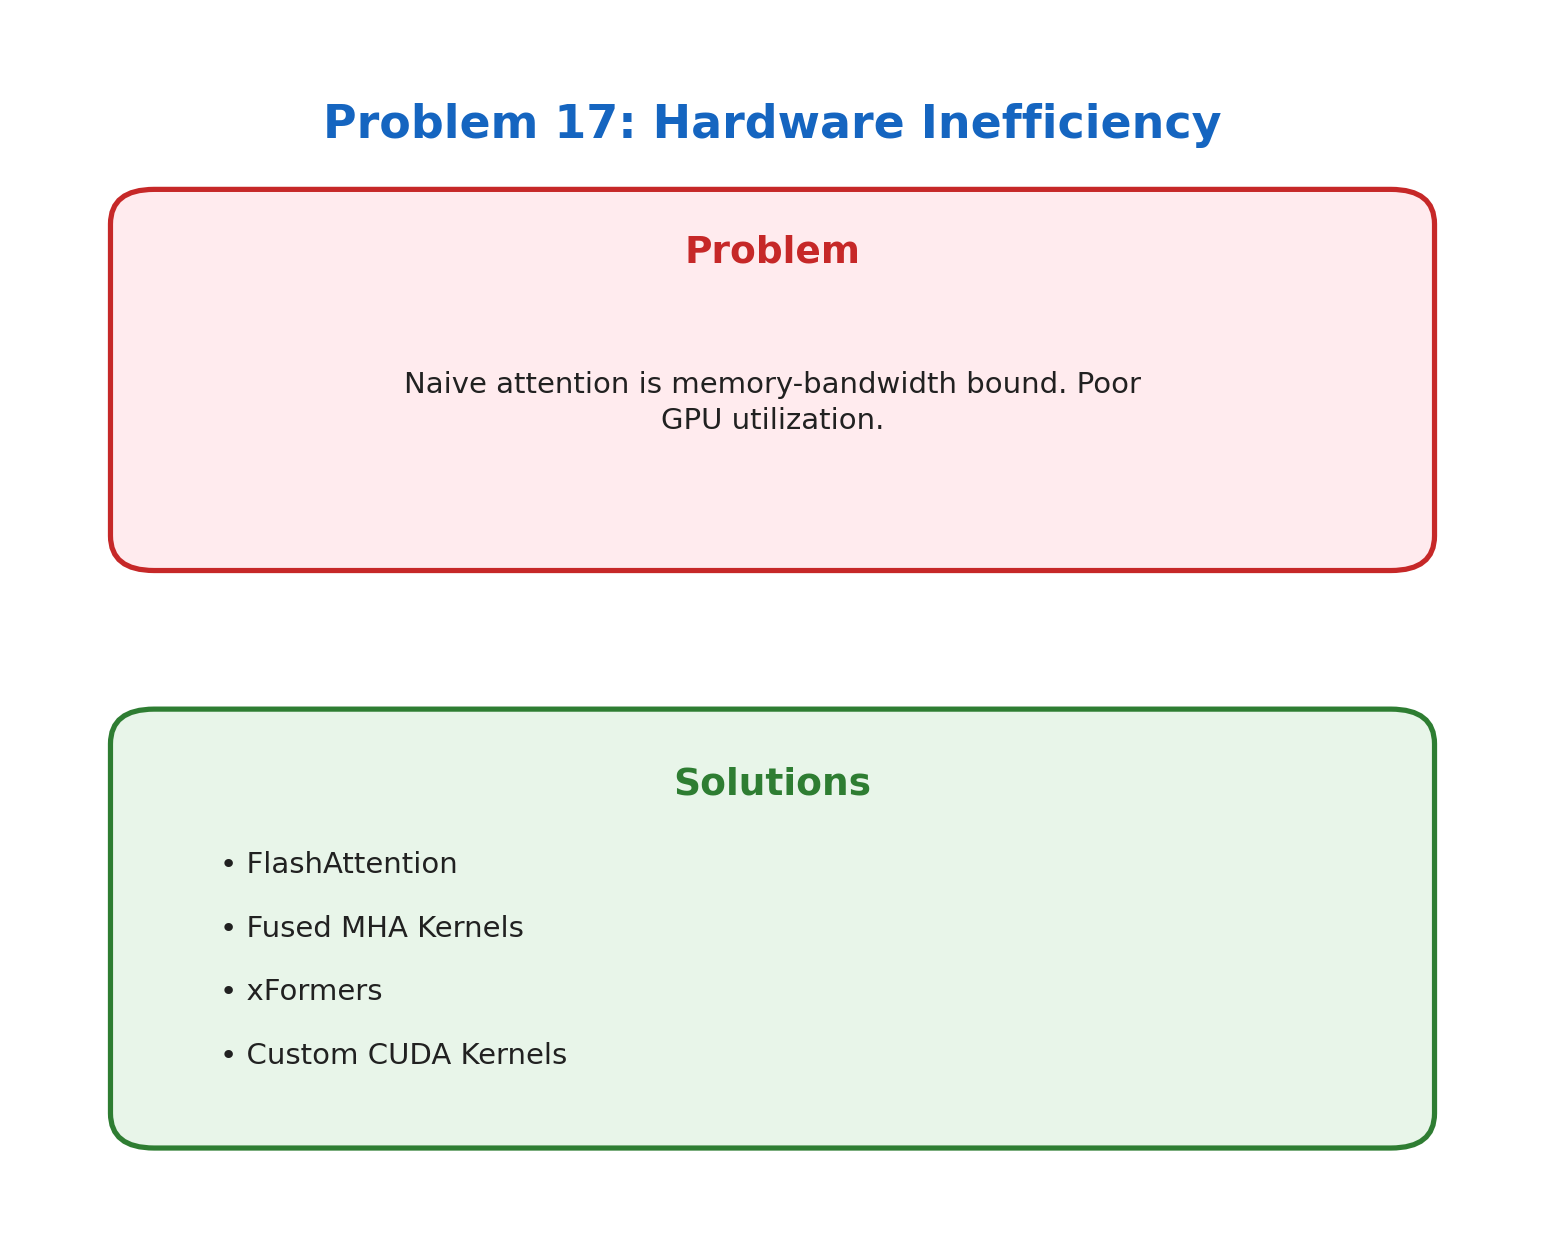
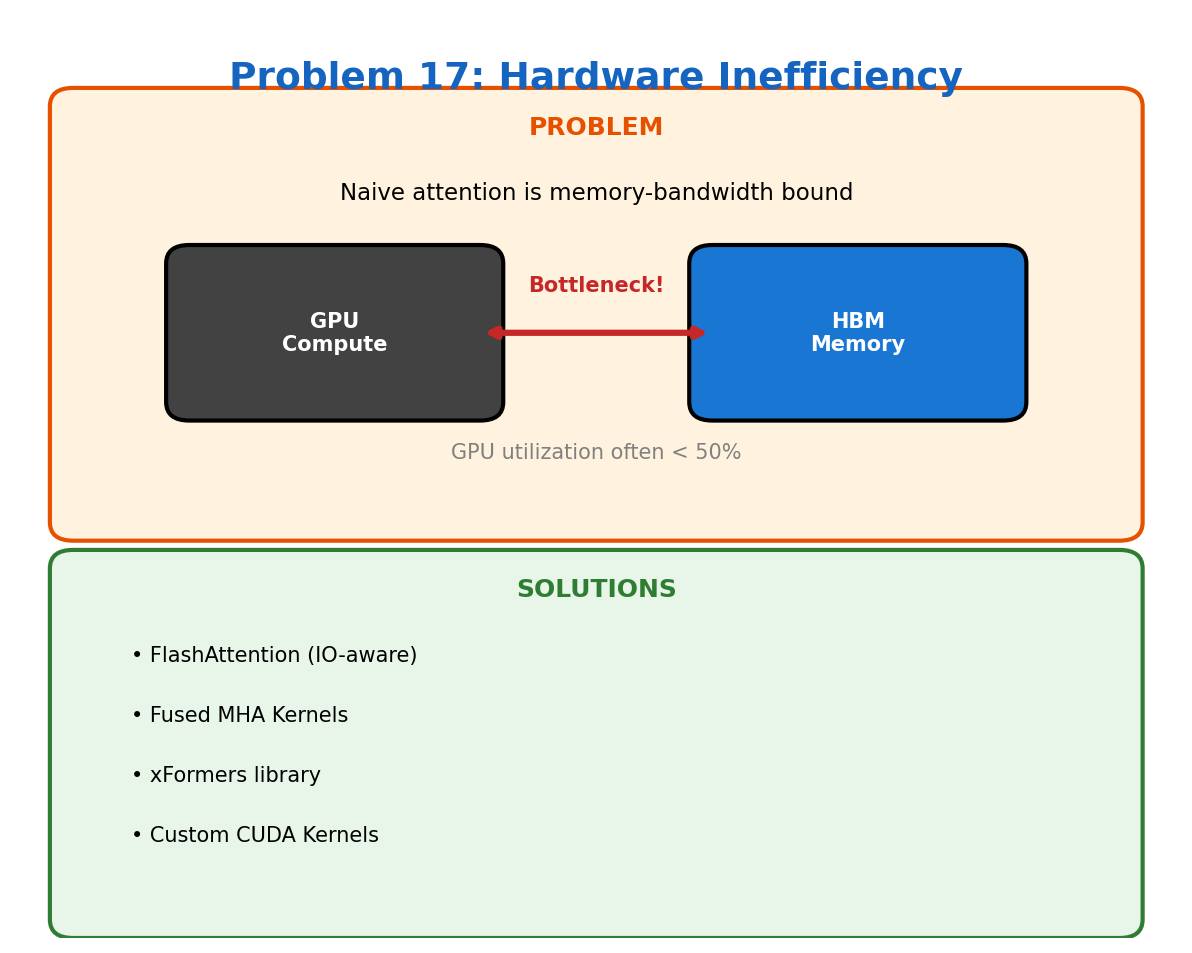
Update Problem 17: Hardware Inefficiency - human-readable README

diff --git a/17_hardware_inefficiency/README.md b/17_hardware_inefficiency/README.md
@@ -1,23 +1,68 @@
 # Problem 17: Hardware Inefficiency
 
-## Problem
+[← Back to Main](../README.md) | [← Previous](../16_dense_inputs/README.md) | [Next →](../18_realtime_deployment/README.md)
 
-Naive attention is memory-bandwidth bound. Poor GPU utilization.
+---
 
-Standard attention implementations are bottlenecked by memory bandwidth rather than compute. Reading/writing the N×N attention matrix to GPU memory dominates runtime.
+![Problem 17](./problem.png)
 
-## Solutions
+## What's the Problem?
 
-| Solution | Description |
-|----------|-------------|
-| **FlashAttention** | IO-aware attention that minimizes HBM reads/writes |
-| **Fused MHA Kernels** | Fuse multiple attention operations into single kernels |
-| **xFormers** | Facebook's library for efficient Transformer components |
-| **Custom CUDA Kernels** | Hand-optimized kernels for specific hardware |
+GPUs are insanely fast at matrix multiplication — A100s can do 312 TFLOPS. But during attention, they often sit idle at 30-50% utilization.
 
-## References
+Why? Memory bandwidth. The GPU can compute faster than it can read/write data. Attention requires reading Q, K, V matrices from memory, computing scores, writing them back, reading again for softmax... lots of memory traffic.
 
-- [FlashAttention](https://arxiv.org/abs/2205.14135) - Fast and Memory-Efficient Exact Attention
-- [FlashAttention-2](https://arxiv.org/abs/2307.08691) - Faster Attention with Better Parallelism
-- [xFormers](https://github.com/facebookresearch/xformers) - Hackable and Optimized Transformers
+This is called being **memory-bound** (vs. **compute-bound**).
 
+## The Memory Hierarchy
+
+```
+SRAM (on-chip): ~20MB, ~19 TB/s bandwidth
+HBM (GPU memory): ~80GB, ~2 TB/s bandwidth
+```
+
+SRAM is fast but tiny. HBM is big but slow (relatively). Standard attention constantly shuffles data between them.
+
+## The Attention Bottleneck
+
+Standard attention:
+1. Load Q, K from HBM → SRAM
+2. Compute QK^T → Write to HBM
+3. Load QK^T from HBM → SRAM  
+4. Compute softmax → Write to HBM
+5. Load attention weights and V → SRAM
+6. Compute output → Write to HBM
+
+That N×N attention matrix gets written and read multiple times. For long sequences, this dominates runtime.
+
+## How Do We Fix It?
+
+| Approach | What It Does |
+|----------|--------------|
+| **FlashAttention** | Fuse all attention operations, never materialize N×N matrix |
+| **Fused Kernels** | Combine multiple operations into single GPU kernel |
+| **xFormers** | Library of memory-efficient transformer components |
+| **Custom CUDA** | Hand-written kernels optimized for specific hardware |
+
+## FlashAttention: The Fix
+
+FlashAttention restructures the computation:
+1. Process attention in tiles that fit in SRAM
+2. Compute softmax incrementally (online softmax)
+3. Never write the full N×N matrix to HBM
+
+Same math, same output, but 2-4x faster and uses way less memory. It's now the default in most frameworks.
+
+## The Broader Lesson
+
+Algorithmic improvements alone aren't enough. You need **IO-aware algorithms** that account for hardware realities. The "optimal" algorithm on paper might be slower than a "worse" one that plays nice with the memory hierarchy.
+
+## Learn More
+
+- [FlashAttention Paper](https://arxiv.org/abs/2205.14135)
+- [FlashAttention-2](https://arxiv.org/abs/2307.08691) — Even faster
+- [xFormers](https://github.com/facebookresearch/xformers)
+
+---
+
+[← Back to Main](../README.md) | [← Previous](../16_dense_inputs/README.md) | [Next →](../18_realtime_deployment/README.md)
